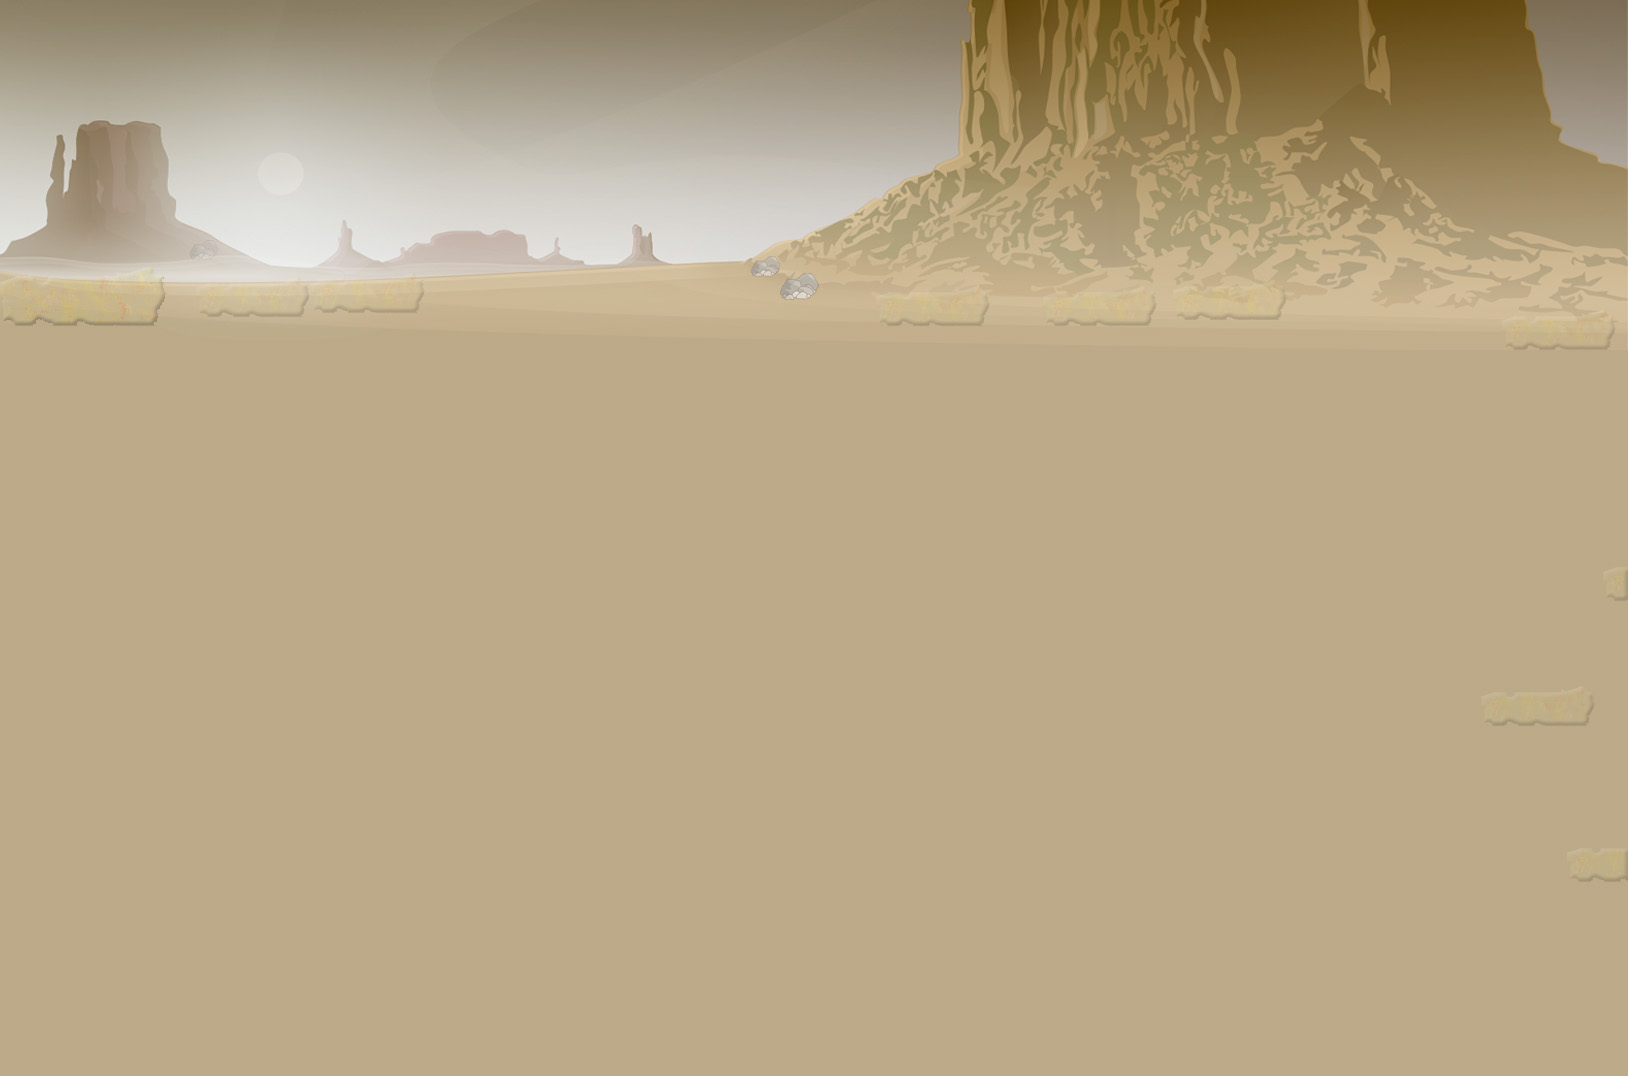
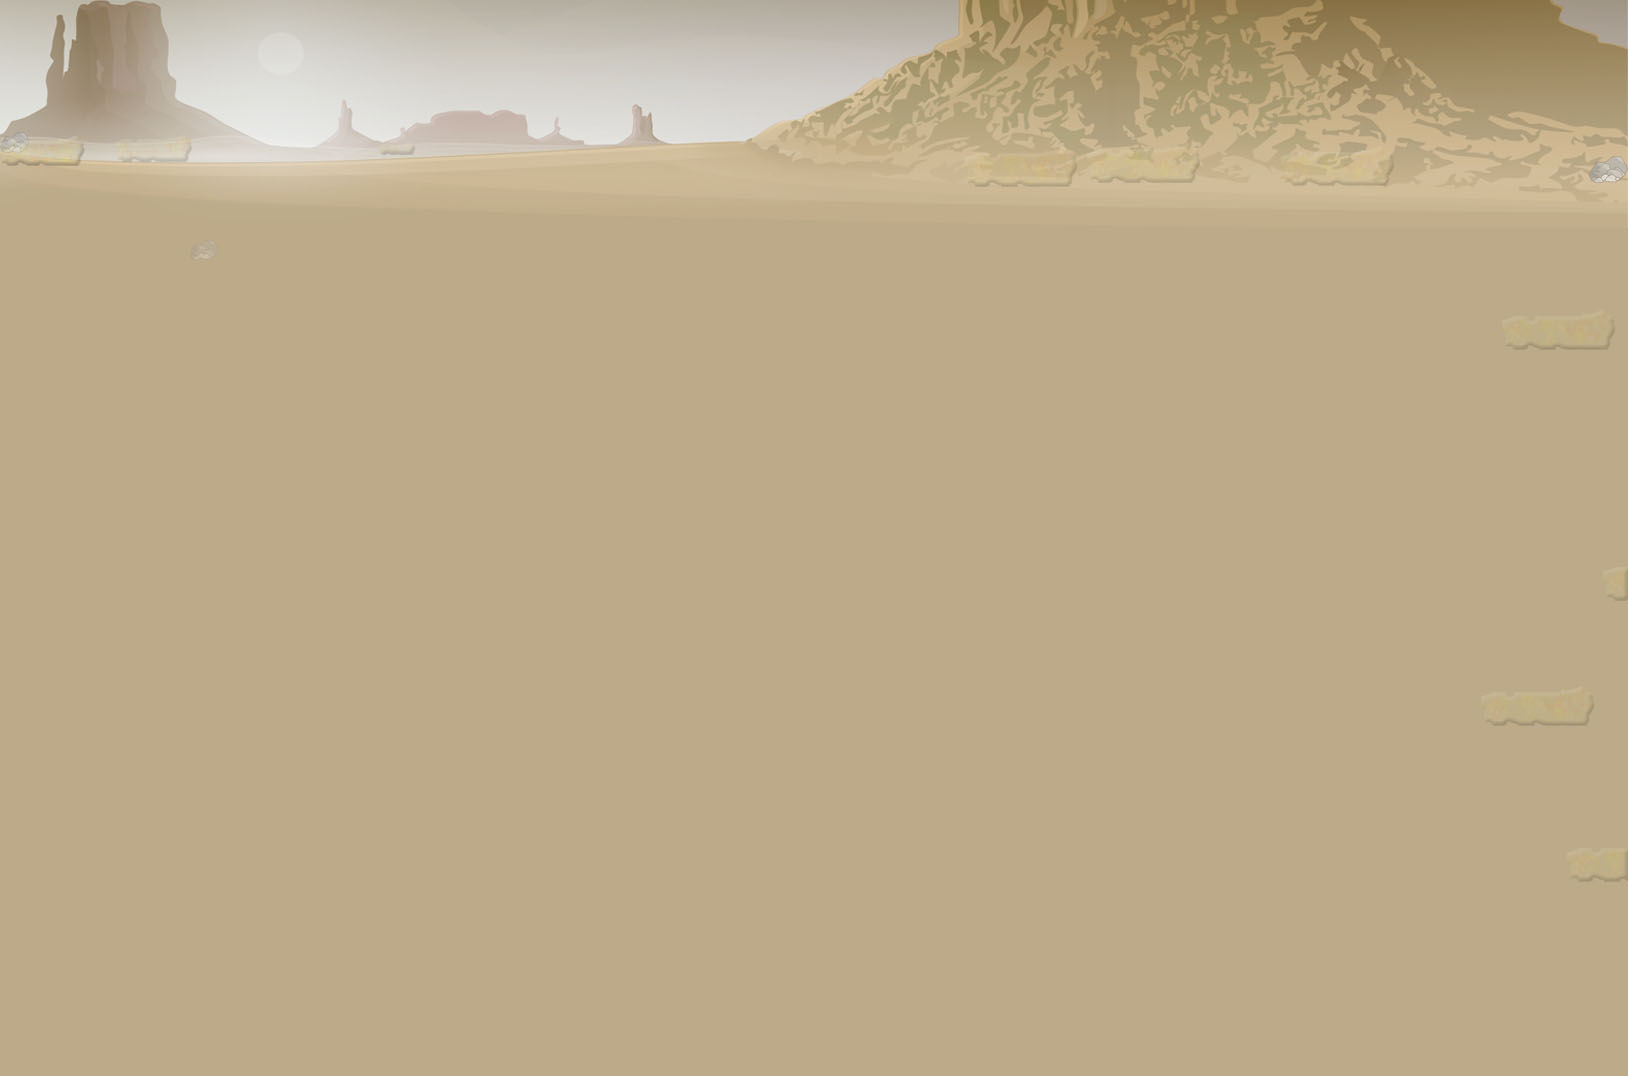
Change in the backgrounds
Change in the backgrounds and in style.css

Changed region(s): [[0.0, 0.0, 1.0, 0.276]]

diff --git a/src/css/style.css b/src/css/style.css
@@ -14,7 +14,7 @@
 .wild-west #map .goal { background: url('/images/rocketP2.png') no-repeat center center; }
 
 .country-green {
-    background: url('/images/bgcountrygreen.jpg') repeat;
+    background: url('/images/bgcountrygreen2.jpg') repeat;
 }
 .country-green  #map .wall { background: url('/images/obstCountryGreen.png') no-repeat center center; }
 .country-green #map .goal { background: url('/images/rocketP3.png') no-repeat center center; }
@@ -26,7 +26,7 @@
 .ocean #map .goal { background: url('/images/rocketP4.png') no-repeat center center; }
 
 .beach {
-    background: url('/images/bgBeach.png') repeat;
+    background: url('/images/bgBeach2.png') repeat;
 }
 .beach  #map .wall { background: url('/images/obsBeach.png') no-repeat center center; }
 .beach #map .goal { background: url('/images/rocketP5.png') no-repeat center center; }
